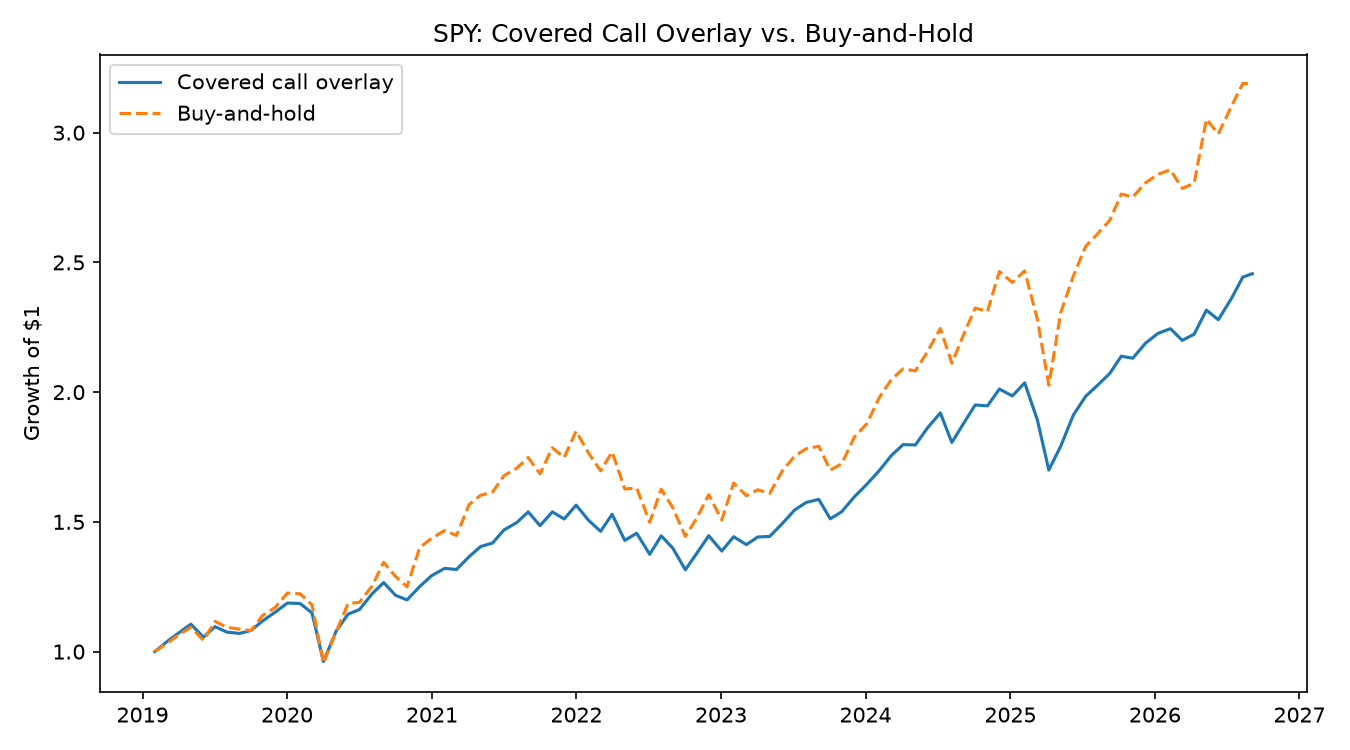
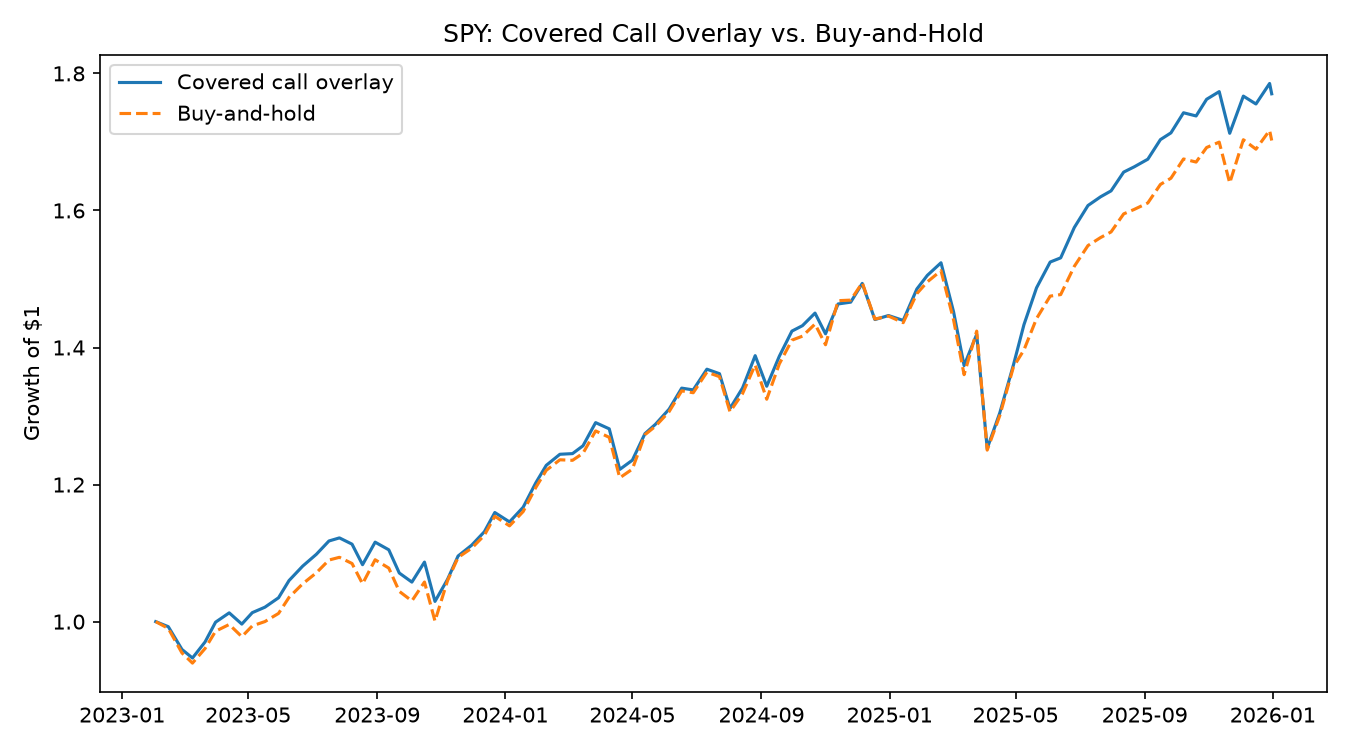
README updates

diff --git a/README.md b/README.md
@@ -26,6 +26,22 @@ python -m pytest tests/ -v                    # run the test suite
 
 `run_backtest.py` pulls live SPY data via `yfinance` by default; use `--csv path/to/prices.csv` to run offline from a local file (`Date` + `Close`/`Adj Close` columns).
 
+## Market Validation
+- Benchmarked closed-form prices against real SPY option quotes, isolating the model's constant-volatility assumption
+- Pricing error grows from ~0.1% to ~0.4% as strike diverges from the reference (at-the-money) point
+- **[Note: this repo does not yet include the script/notebook that produced this comparison — add it under `examples/` (e.g. `run_market_validation.py`) with the quote date and strikes used, so the result is reproducible from the repo alone.]**
+
+## Backtest Results: Covered-Call Overlay vs. Buy-and-Hold
+- 92 rebalance periods, SPY, 2023–2026, 8-trading-day tenor, 3% OTM, r=2%
+- CAGR: 21.6% (strategy) vs. 20.0% (buy-and-hold)
+- Sharpe ratio: 1.27 (strategy) vs. 1.13 (buy-and-hold)
+- Max drawdown: 17.8% (strategy) vs. 17.3% (buy-and-hold)
+- Reproduce with:
+  ```bash
+  python examples/run_backtest.py --start 2023-01-01 --end 2026-01-01 --hold-days 8
+  ```
+- Note: these numbers are sensitive to `--hold-days`. At the default 21-day tenor over the same window, the strategy underperforms buy-and-hold on Sharpe (1.08 vs. 1.12) with lower drawdown (16.5% vs. 17.9%) instead — the tenor isn't incidental, it's what determines which of these two results you get.
+
 ## Project Structure
 ```
 src/
